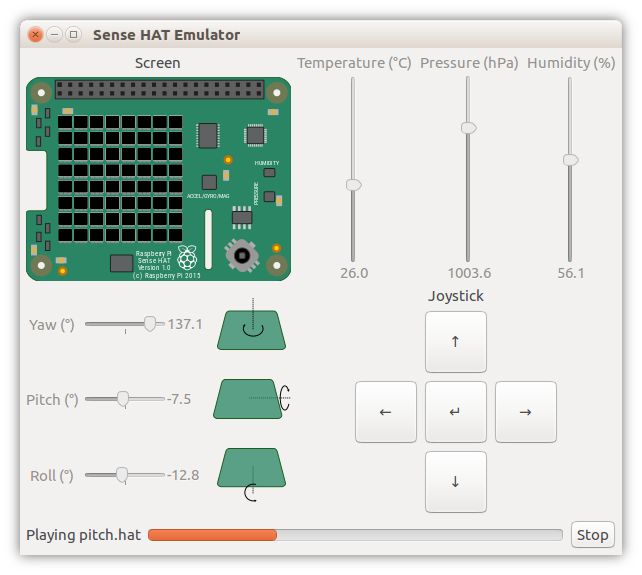
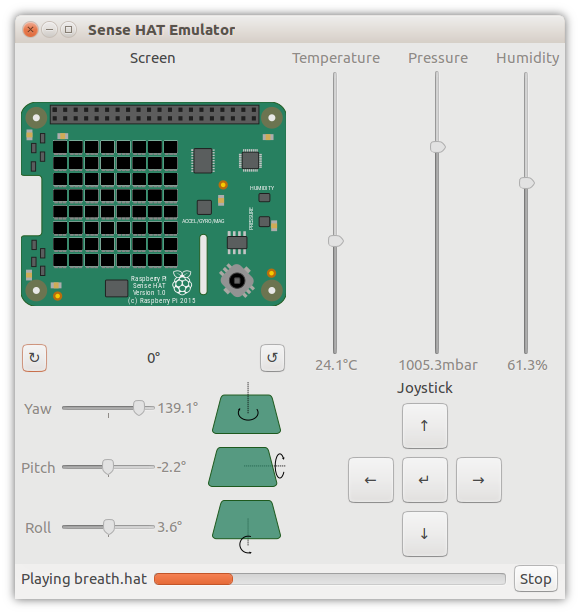
Update doc screenshots

Changed region(s): [[0.0, 0.0, 0.9931, 1.0], [0.8069, 0.7096, 0.8379, 0.7391], [0.5897, 0.7096, 0.6207, 0.7391]]

diff --git a/docs/sense_emu_gui.rst b/docs/sense_emu_gui.rst
@@ -23,11 +23,14 @@ Usage
 The main window is divided into four parts. At the top left is a visual
 representation of the Sense HAT. Scripts using the emulator library
 (:mod:`sense_emu`) to set the HAT's LEDs will display the result here.
+Immediately below the LEDs are the rotation buttons which rotate the view of
+the HAT. These buttons also affect the action of the joystick buttons (covered
+below).
 
 At the top right, three sliders represent the temperature, pressure, and
 humidity of the emulated HAT's environment.
 
-.. important::
+.. note::
 
     The emulation does not *precisely* reflect the settings of the temperature,
     pressure, and humidity sliders. Random errors are introduced that scale
@@ -37,7 +40,11 @@ humidity of the emulated HAT's environment.
 
 At the bottom right of the window, a series of buttons are provided to emulate
 the joystick on the HAT. The buttons will simulate *press*, *release*, and
-*hold* events generated by the real joystick.
+*hold* events generated by the real joystick. When the view of the HAT is
+rotated, the joystick buttons will act in the new orientation of the HAT. For
+example, initially the "up" button will send "up" events. After the HAT is
+rotated 90° the "up" button will send "right" events. After another 90°
+rotation, the "up" button will send "down" events, and so on.
 
 Finally, at the bottom left of the window, three sliders provide the
 orientation of the emulated HAT in terms of yaw (rotation around the vertical Z
@@ -56,15 +63,30 @@ and that North is in the direction of the X axis.
     readings will appear fixed). Attempting to spawn more than one instance of
     the emulator will simply activate the existing instance.
 
+Preferences
+===========
+
+On slower Pis in particular, you may wish to disable some aspects of the
+emulation for performance purposes. From the "Edit" menu, select "Preferences".
+In the window that appears you can control which aspects of the emulation are
+enabled, and what speed the screen updates will be limited to.
+
+.. image:: gui_prefs.png
+    :align: center
+
+You can also control the appearance of angles for the orientation sliders (note
+that this is a purely visual preference; it doesn't affect the output of the
+emulated sensors in any way).
+
 Replay
 ======
 
 Recordings of actual sensor readings from a Sense HAT can be replayed within
-the emulator. From the menu, select "Replay recording". From the file selection
-dialog that appears, select the recording you wish to replay and click "Open".
-The replay will immediately begin, with progress displayed in a bar at the
-bottom of the main window. You can click "Stop" (next to the progress bar) to
-terminate playback of the recording.
+the emulator. From the "File" menu, select "Replay recording". From the file
+selection dialog that appears, select the recording you wish to replay and
+click "Open".  The replay will immediately begin, with progress displayed in a
+bar at the bottom of the main window. You can click "Stop" (next to the
+progress bar) to terminate playback of the recording.
 
 .. image:: gui_replay.png
     :align: center
